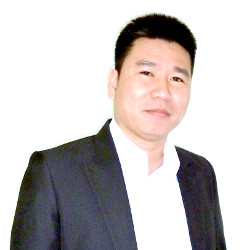
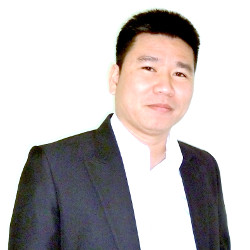
Further changes

diff --git a/our-team.html b/our-team.html
@@ -274,7 +274,7 @@
 								<div class="col-md-3 col-sm-3 bottommargin">
 									<div class="team">
 										<div class="team-image">
-											<img src="images/team/stack.png" alt="stack">
+											<img src="images/team/stack.jpg" alt="stack">
 										</div>
 										<div class="team-desc team-desc-bg">
 											<div class="team-title">
